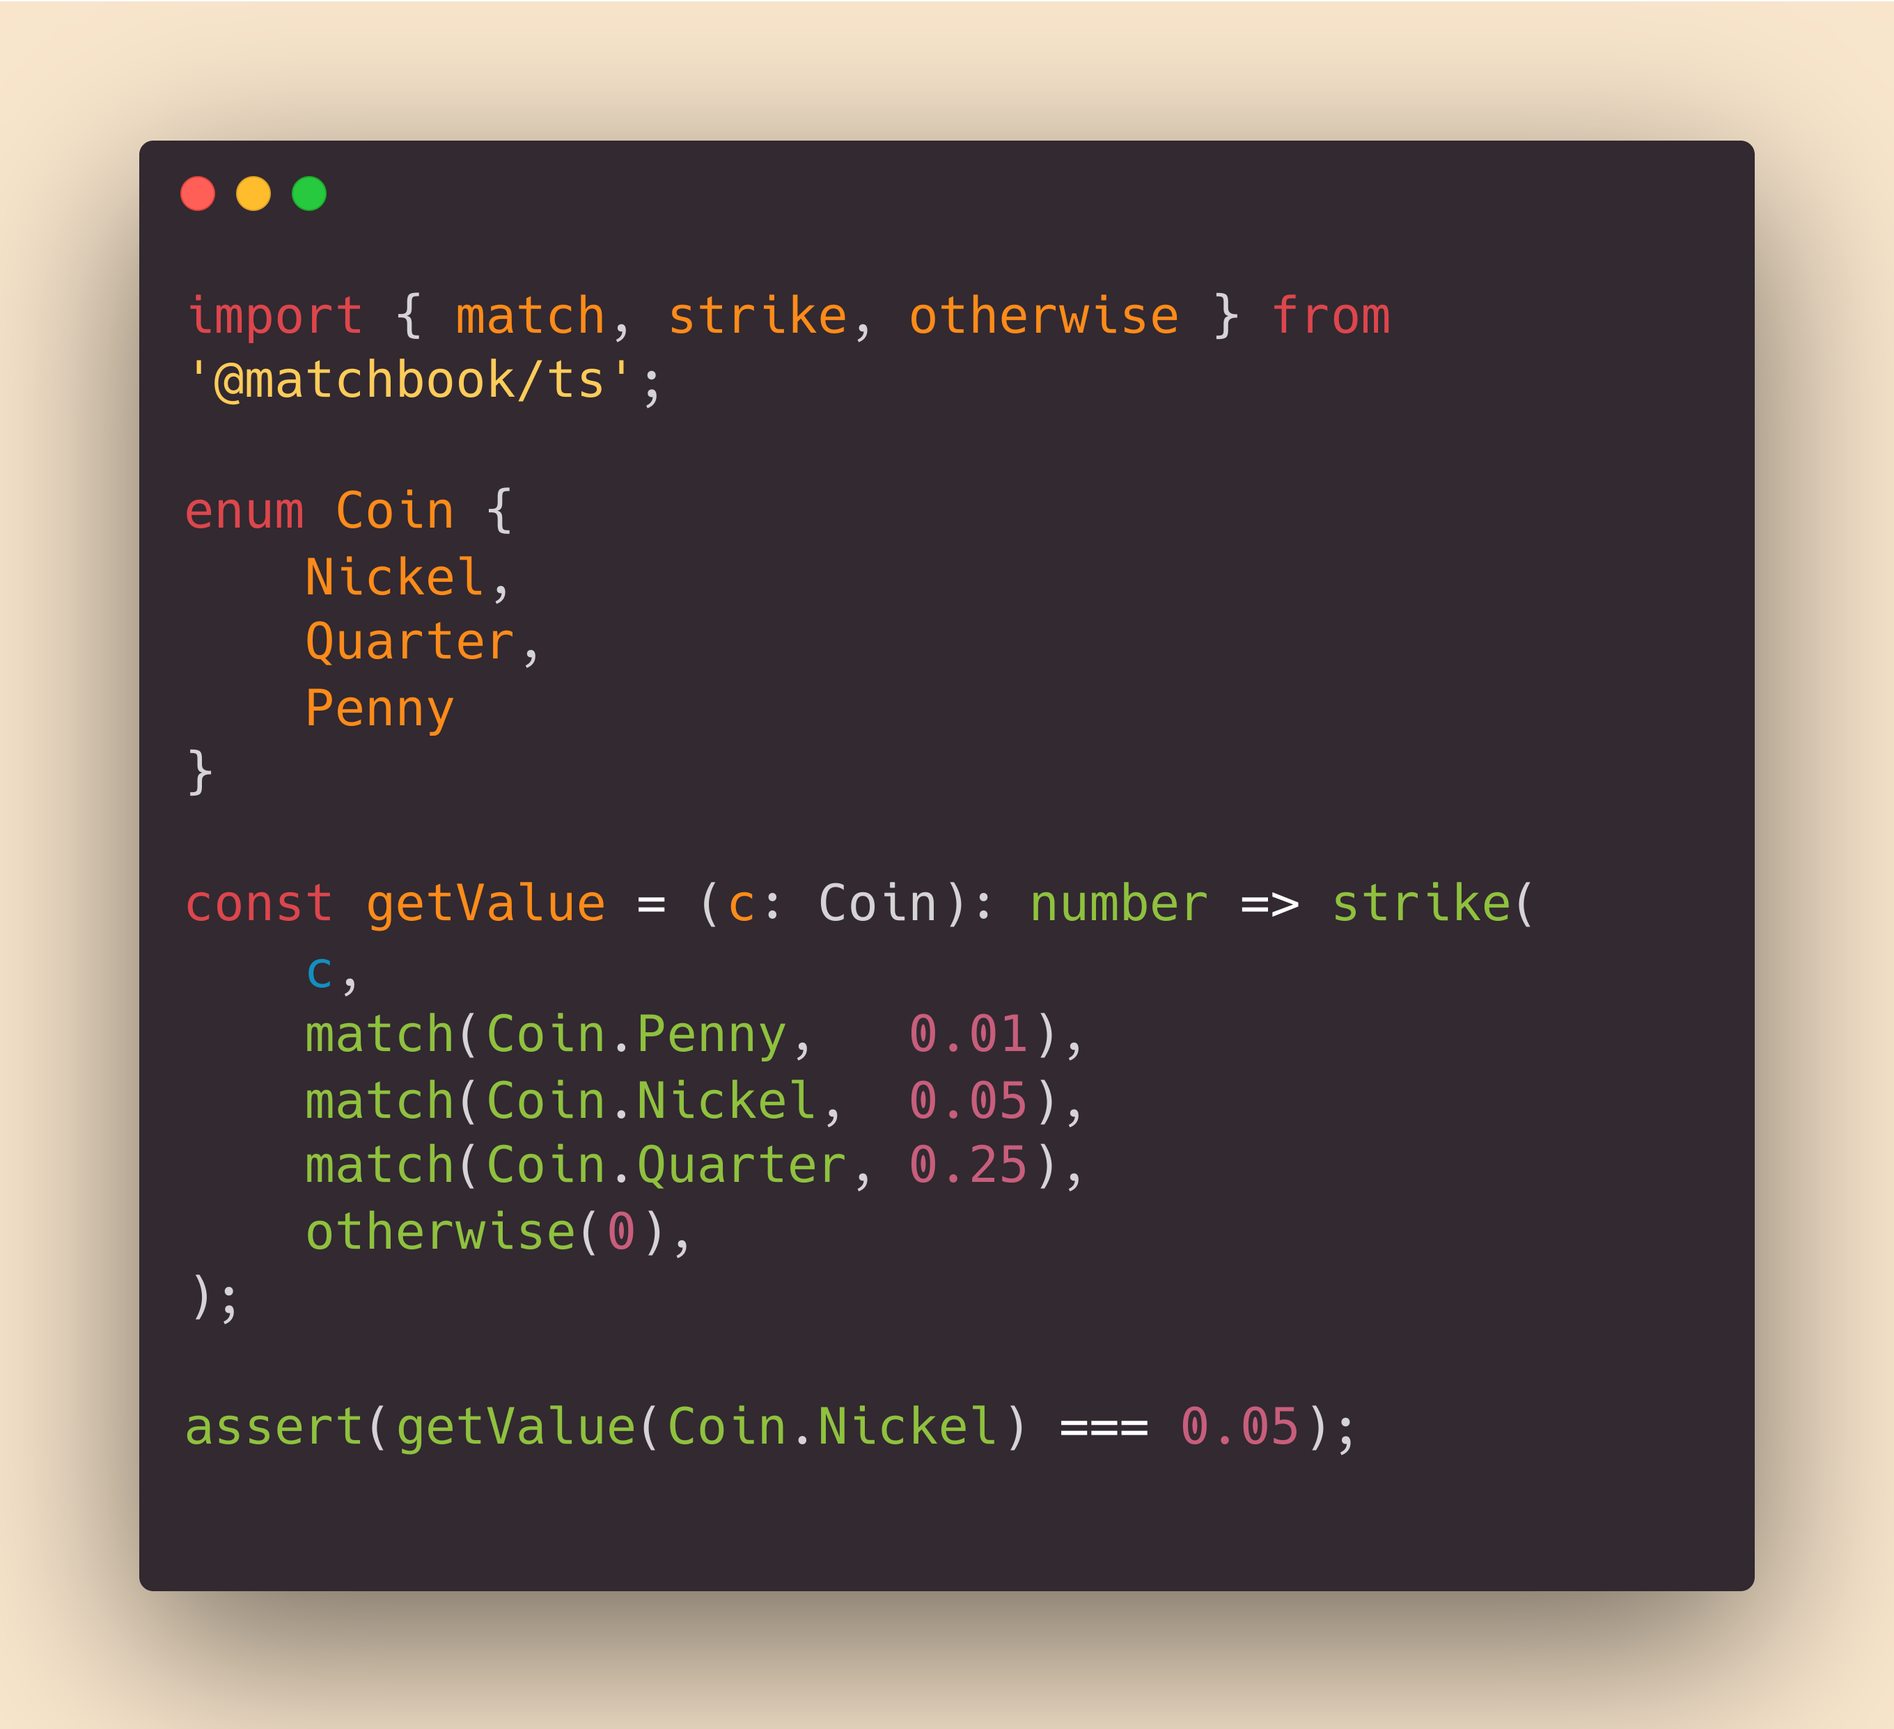
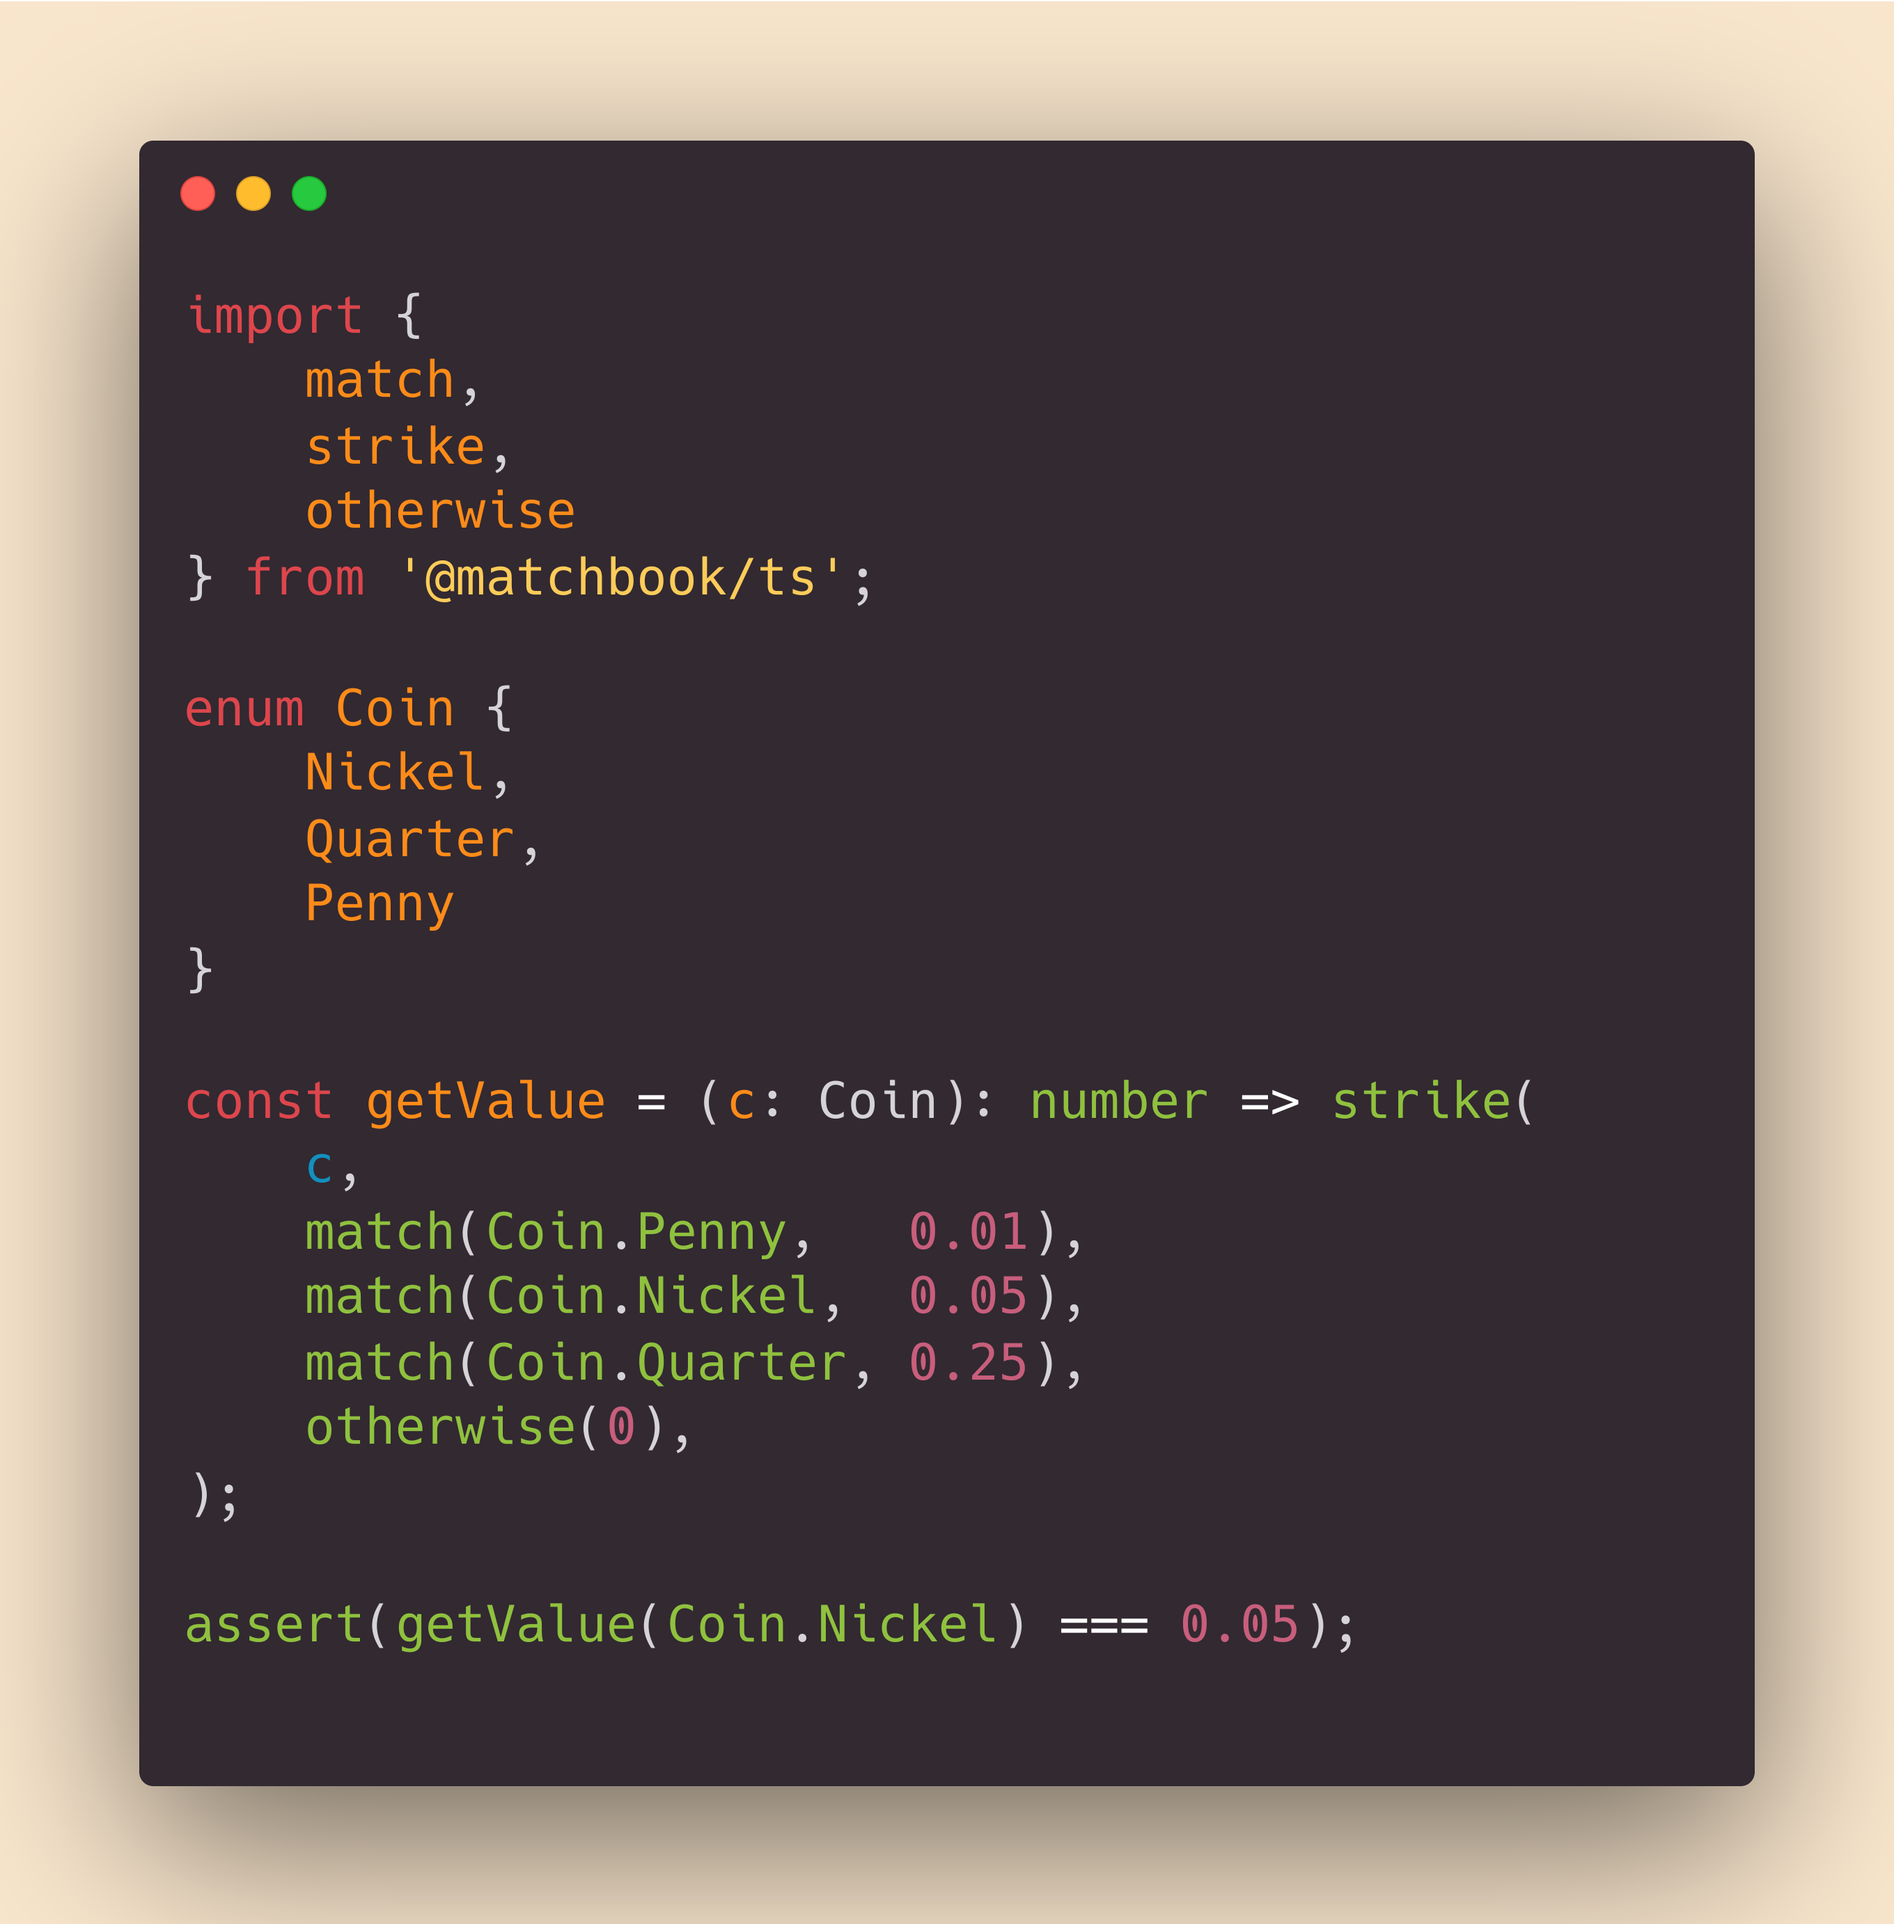
docs: fix a couple lil screenshot things (#32)
* update screenshops

* update

* more updates

* rm typ

* fix overflow

* more overflow fixes

* more overflow fixes

* fix assert in type guard

* update readme with link

* missed a couple

* back it up

* ok redo

* abc123

diff --git a/assets/readme-samples/src/structure.snippet.ts b/assets/readme-samples/src/structure.snippet.ts
@@ -1,4 +1,8 @@
-import { match, strike, otherwise } from '@matchbook/ts';
+import {
+    match,
+    strike,
+    otherwise
+} from '@matchbook/ts';
 
 type Person = { name: string, hobby: string, };
 

diff --git a/assets/readme-samples/src/enum.snippet.ts b/assets/readme-samples/src/enum.snippet.ts
@@ -1,4 +1,8 @@
-import { match, strike, otherwise } from '@matchbook/ts';
+import {
+    match,
+    strike,
+    otherwise
+} from '@matchbook/ts';
 
 enum Coin {
     Nickel,

diff --git a/assets/readme-samples/src/abc_123.snippet.ts b/assets/readme-samples/src/abc_123.snippet.ts
@@ -1,5 +1,6 @@
 // it's as easy as
-strike(letter,
+strike(
+    letter,
     match('A', 1),
     match('B', 2),
     match('C', 3)
